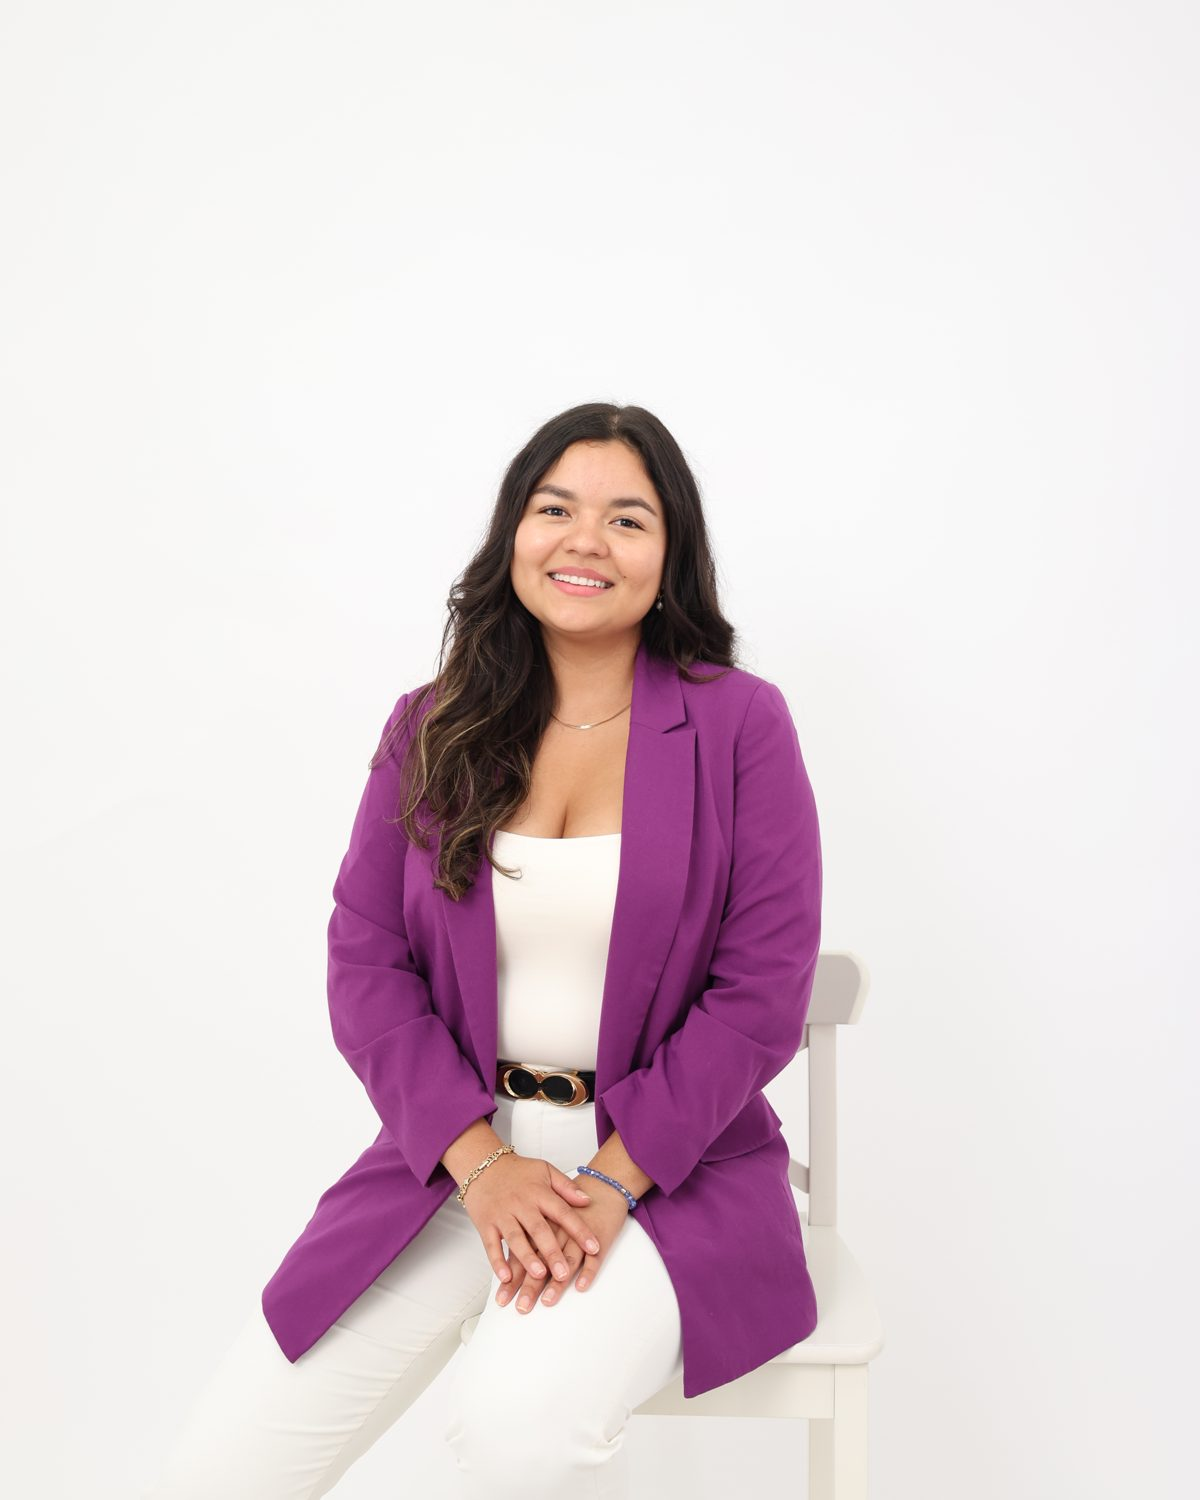
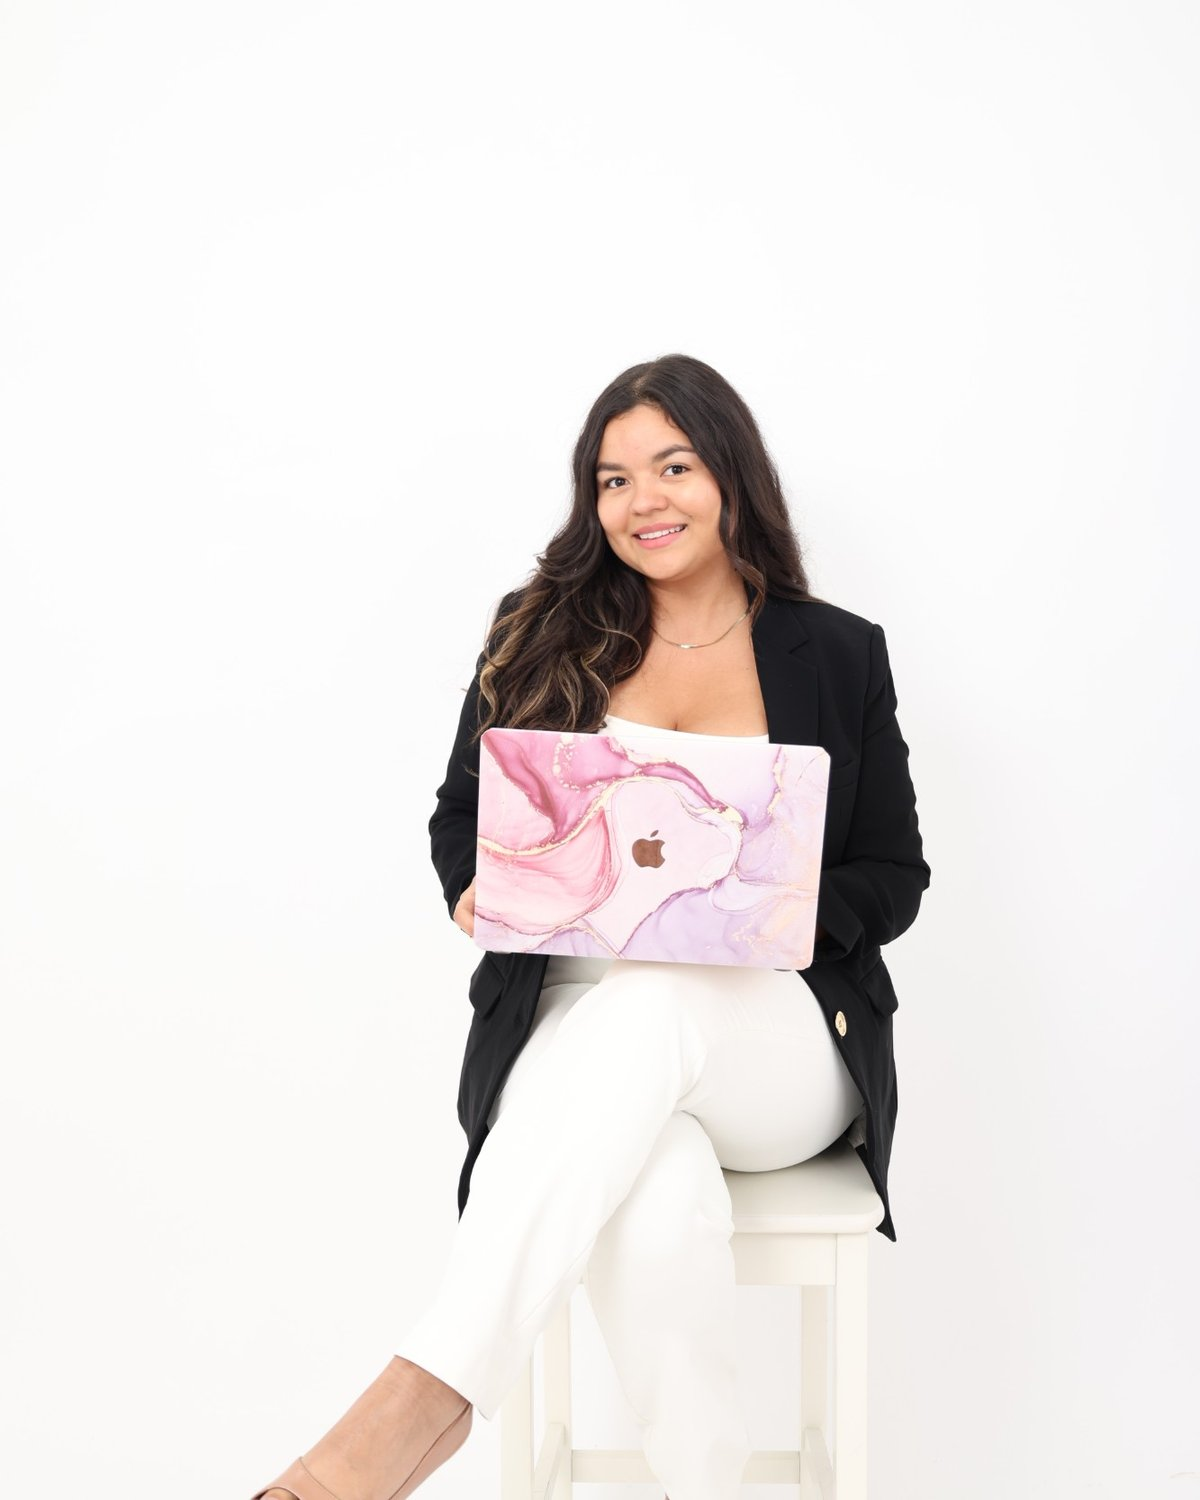
Update About photo, add FinCon speaker badge to Speaker Events

Changed region(s): [[0.2158, 0.2147, 0.7708, 1.0], [0.4625, 0.9507, 0.4933, 1.0]]

diff --git a/js/translations.js b/js/translations.js
@@ -378,15 +378,17 @@ const TRANSLATIONS = {
     speakerEvents: {
       title: "Speaker Events",
       subtitle: "Stages, panels, and conferences where The Financial Talk has shared the mic.",
-    fincon: {
-      tag: "Past event",
-      name: "FinCon 2026",
-      date: "September 16–18, 2026",
-      location: "Palm Springs, California",
-      desc: "Money Nerds Unite: The Financial Talk joined the personal finance community at FinCon 2026.",
-      link: "Visit FinCon",
-      alt: "FinCon 2026, September 16-18, Palm Springs CA, Money Nerds Unite",
-    },
+      fincon: {
+        tag: "Past event",
+        name: "FinCon 2026",
+        date: "September 16–18, 2026",
+        location: "Palm Springs, California",
+        desc: "Money Nerds Unite: The Financial Talk joined the personal finance community at FinCon 2026.",
+        link: "Visit FinCon",
+        alt: "FinCon 2026, September 16-18, Palm Springs CA, Money Nerds Unite",
+        badgeAlt: "Badge of Recognition: Nathaly Minda, speaker at FinCon, September 16, 2026",
+        badgeCaption: "Our founder's Badge of Recognition as a FinCon 2026 speaker.",
+      },
     },
     getInvolved: {
       hero: {
@@ -830,15 +832,17 @@ const TRANSLATIONS = {
     speakerEvents: {
       title: "Eventos como ponente",
       subtitle: "Escenarios, paneles y conferencias donde The Financial Talk ha compartido el micrófono.",
-    fincon: {
-      tag: "Evento pasado",
-      name: "FinCon 2026",
-      date: "16–18 de septiembre de 2026",
-      location: "Palm Springs, California",
-      desc: "Money Nerds Unite: The Financial Talk estuvo con la comunidad de finanzas personales en FinCon 2026.",
-      link: "Visitar FinCon",
-      alt: "FinCon 2026, 16-18 de septiembre, Palm Springs CA, Money Nerds Unite",
-    },
+      fincon: {
+        tag: "Evento pasado",
+        name: "FinCon 2026",
+        date: "16–18 de septiembre de 2026",
+        location: "Palm Springs, California",
+        desc: "Money Nerds Unite: The Financial Talk estuvo con la comunidad de finanzas personales en FinCon 2026.",
+        link: "Visitar FinCon",
+        alt: "FinCon 2026, 16-18 de septiembre, Palm Springs CA, Money Nerds Unite",
+        badgeAlt: "Insignia de Reconocimiento: Nathaly Minda, ponente en FinCon, 16 de septiembre de 2026",
+        badgeCaption: "La Insignia de Reconocimiento de nuestra fundadora como ponente en FinCon 2026.",
+      },
     },
     getInvolved: {
       hero: {

diff --git a/speaker-events.html b/speaker-events.html
@@ -66,6 +66,10 @@
           <a href="https://finconexpo.com/" class="btn btn-outline" target="_blank" rel="noopener noreferrer" data-i18n="speakerEvents.fincon.link">Visit FinCon</a>
         </div>
       </article>
+      <figure class="past-badge" data-reveal>
+        <img src="assets/images/events/fincon-speaker-badge.jpg" data-i18n-attr="alt:speakerEvents.fincon.badgeAlt" alt="Badge of Recognition: Nathaly Minda, speaker at FinCon, September 16, 2026" width="1200" height="630" loading="lazy" />
+        <figcaption data-i18n="speakerEvents.fincon.badgeCaption">Our founder's Badge of Recognition as a FinCon 2026 speaker.</figcaption>
+      </figure>
     </div>
   </section>
 

diff --git a/css/style.css b/css/style.css
@@ -1353,3 +1353,7 @@ a.partner-item:focus-visible { opacity: 1; }
 .event-memories-head { margin: 56px auto 32px; }
 
 .main-nav a { white-space: nowrap; }
+
+.past-badge { max-width: 640px; margin: 32px auto 0; text-align: center; }
+.past-badge img { display: block; width: 100%; height: auto; border-radius: 16px; box-shadow: var(--shadow-lift); }
+.past-badge figcaption { margin-top: 12px; font-size: 0.9rem; color: var(--color-text-muted); }
